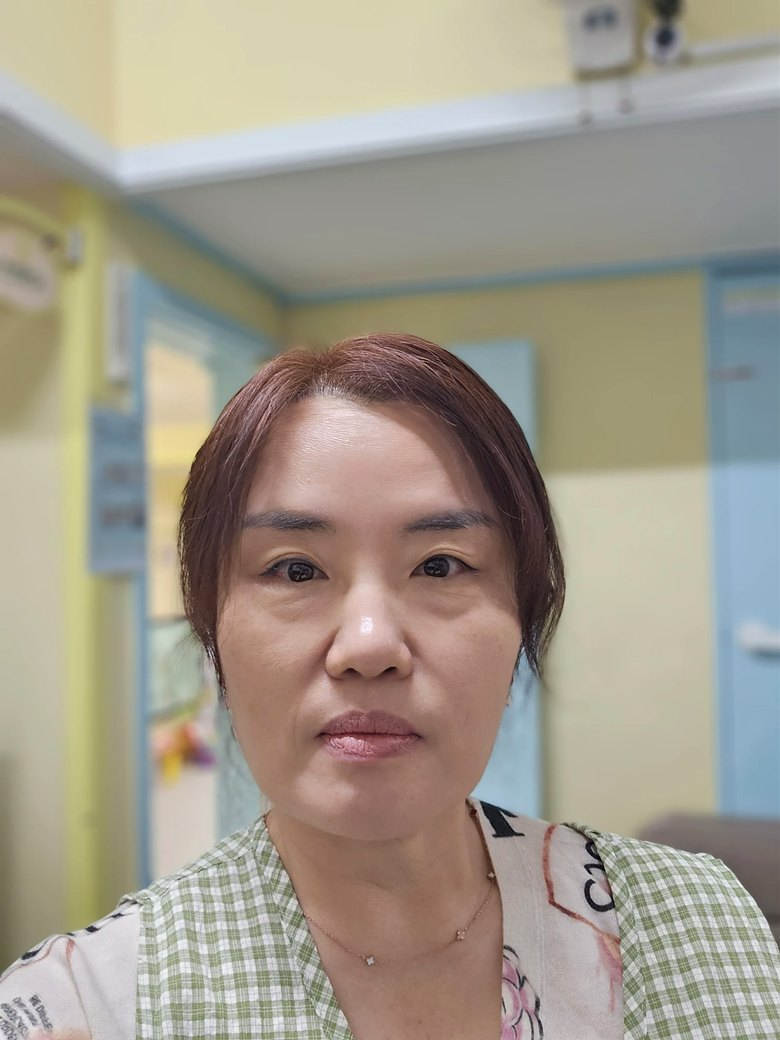
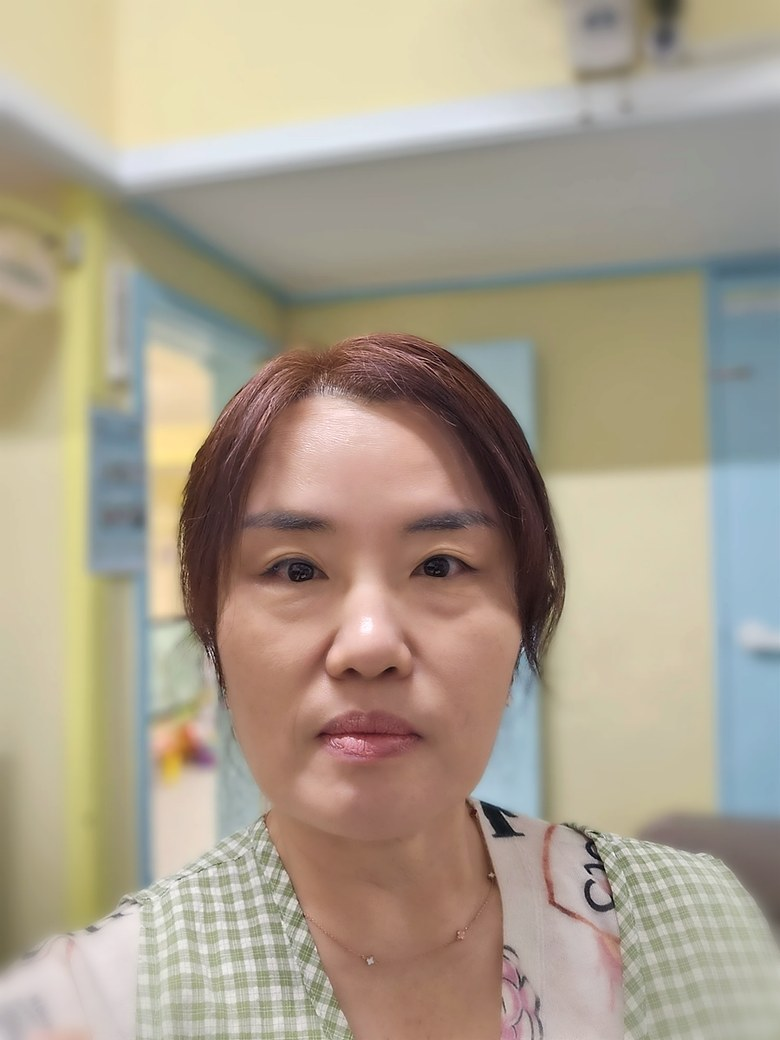
원장 사진 보정 및 자격 표기 수정
- 사진: 배경 흐리게, 피부결 정돈, 밝기·색감·선명도 보정
- "사회복지 과정 수학 중" → "사회복지학 전공 중"

Claude-Session: https://claude.ai/code/session_01CJZNMeCQmDsHCDgQRkD665

diff --git a/index.html b/index.html
@@ -255,7 +255,7 @@ function nextPhoto(img) {
             <li>보육교사 1급</li>
             <li>유치원 정교사</li>
             <li>어린이집 원장 자격</li>
-            <li>사회복지 과정 수학 중</li>
+            <li>사회복지학 전공 중</li>
           </ul>
           <p class="greeting__sign">성모영아전담어린이집 원장 <b>이선화</b> 드림</p>
         </div>
